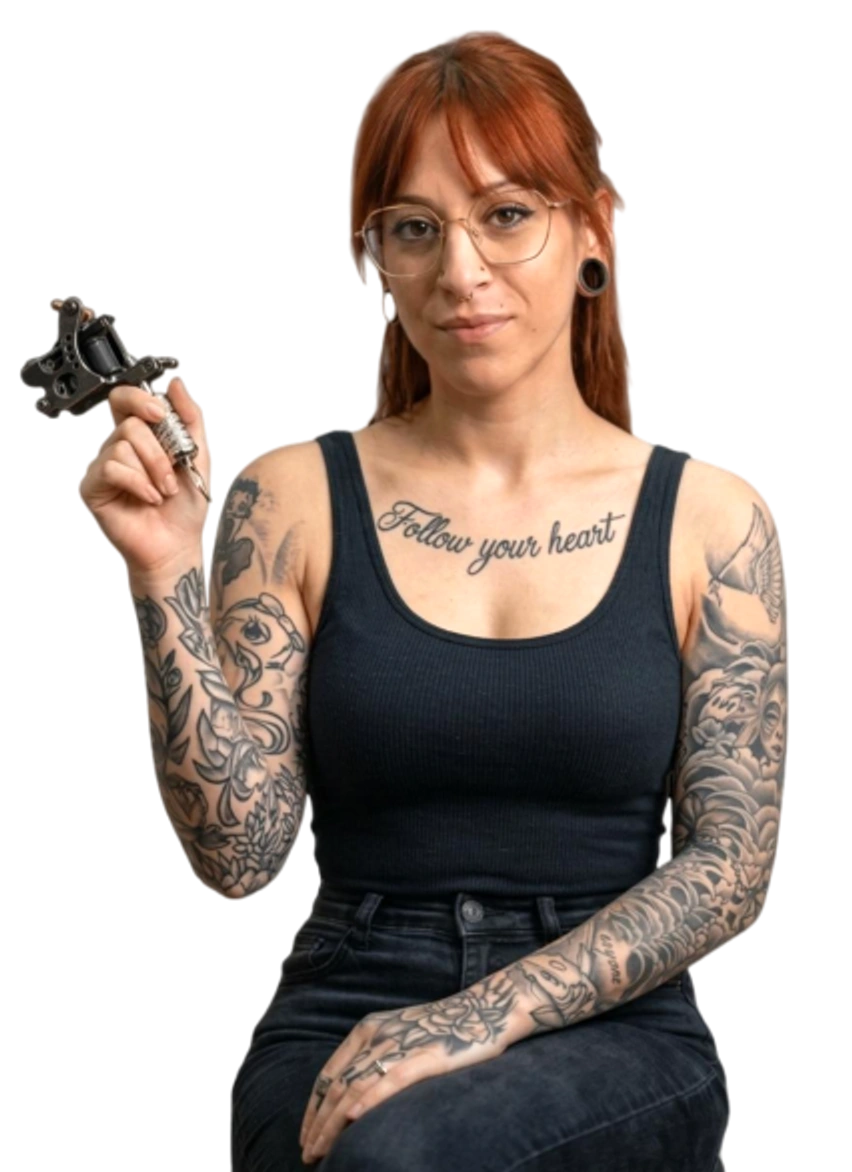
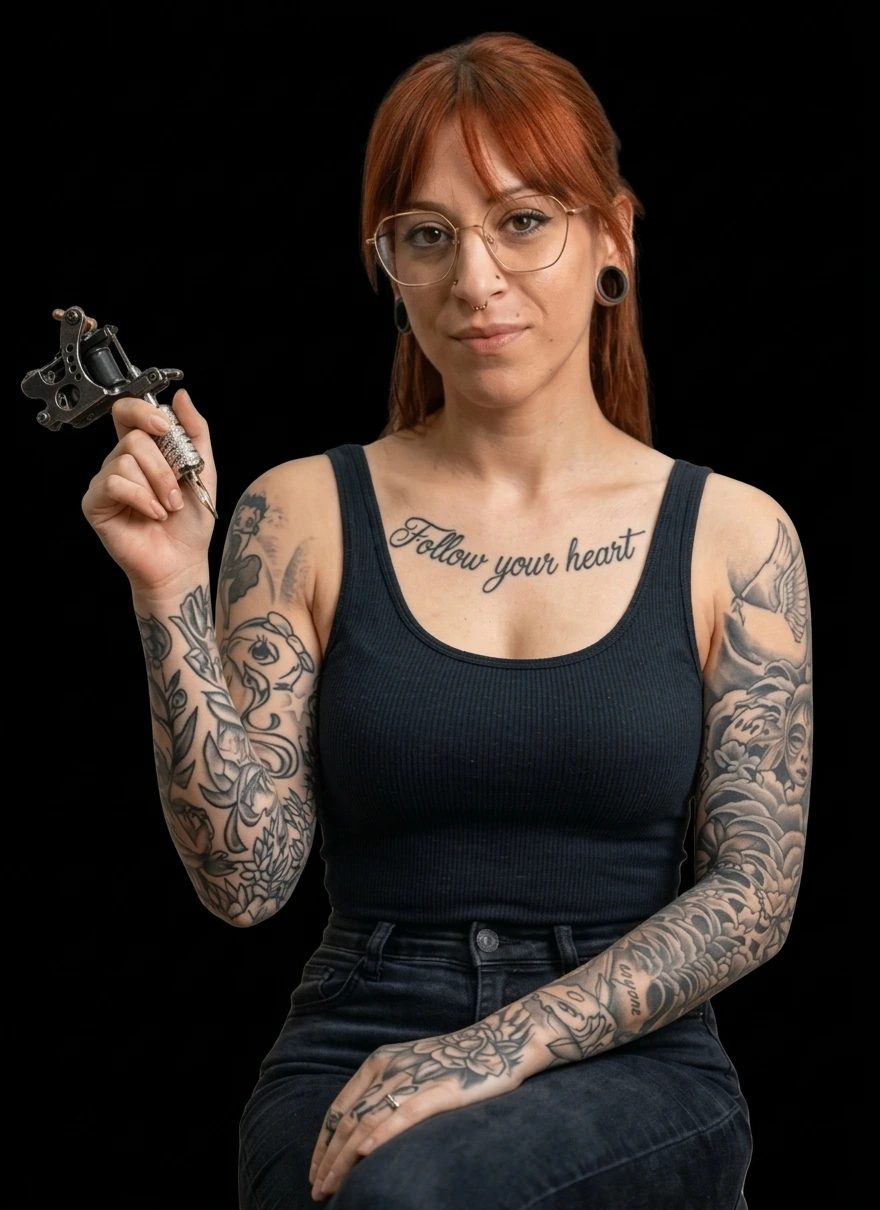
fix: use higher-res Eve photo with black bg (880x1210, 135KB webp)

diff --git a/src/components/About.tsx b/src/components/About.tsx
@@ -5,7 +5,7 @@ export default function About() {
       <div className="container">
         <div className="about-grid">
           <div className="about-img-wrap reveal">
-            <Image src="/images/eve-about.webp" alt="Eve Paule – SkinLove" width={852} height={1172} quality={100} />
+            <Image src="/images/eve-about.webp" alt="Eve Paule – SkinLove" width={880} height={1210} quality={100} />
           </div>
           <div className="reveal">
             <span className="section-label">Über mich</span>
